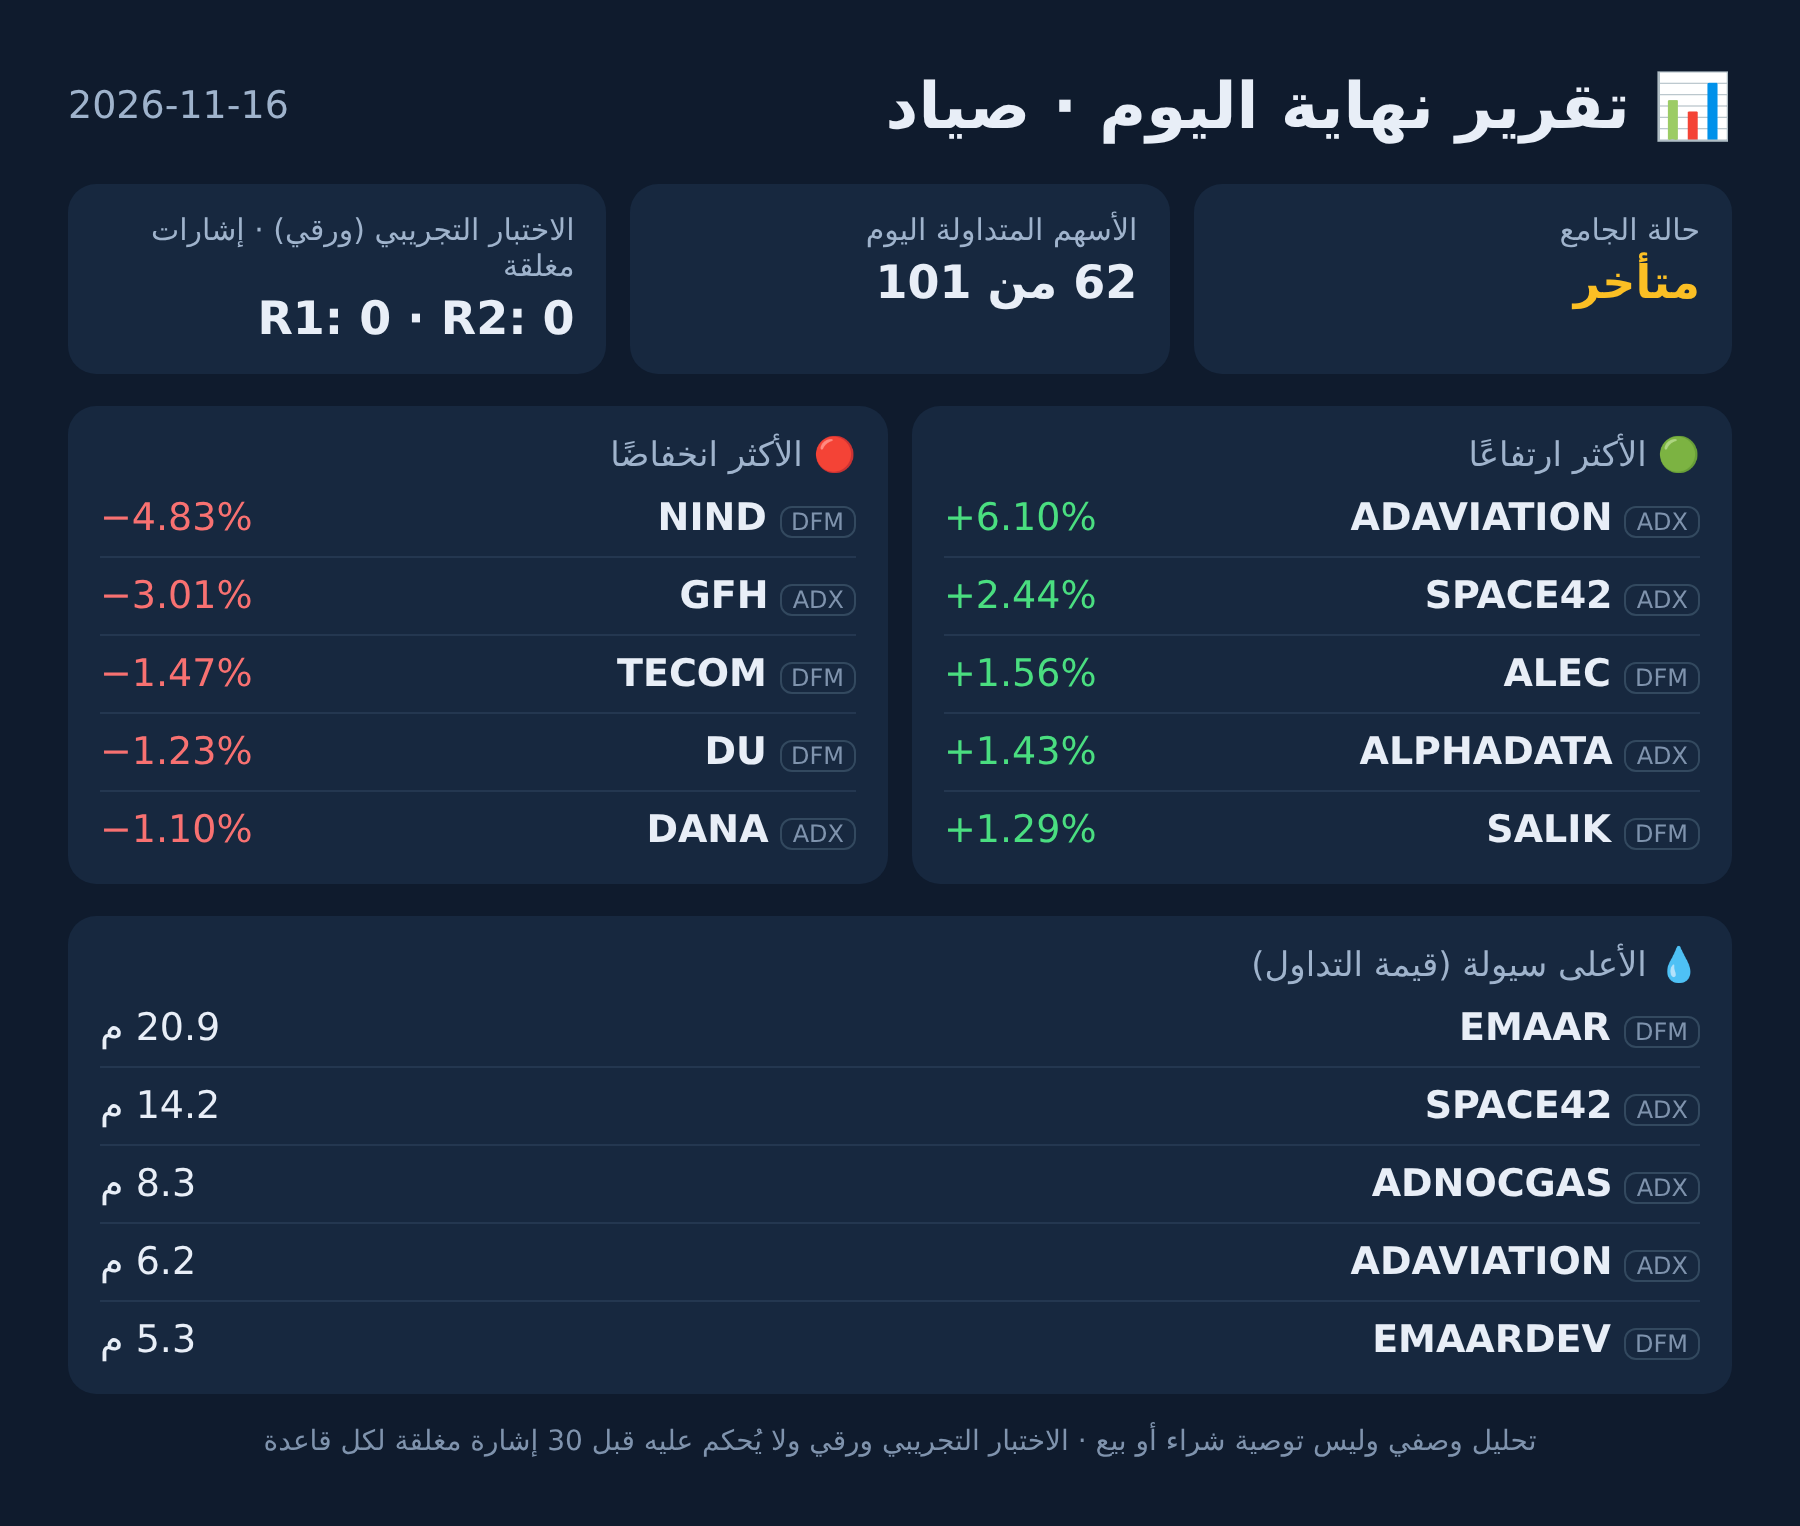
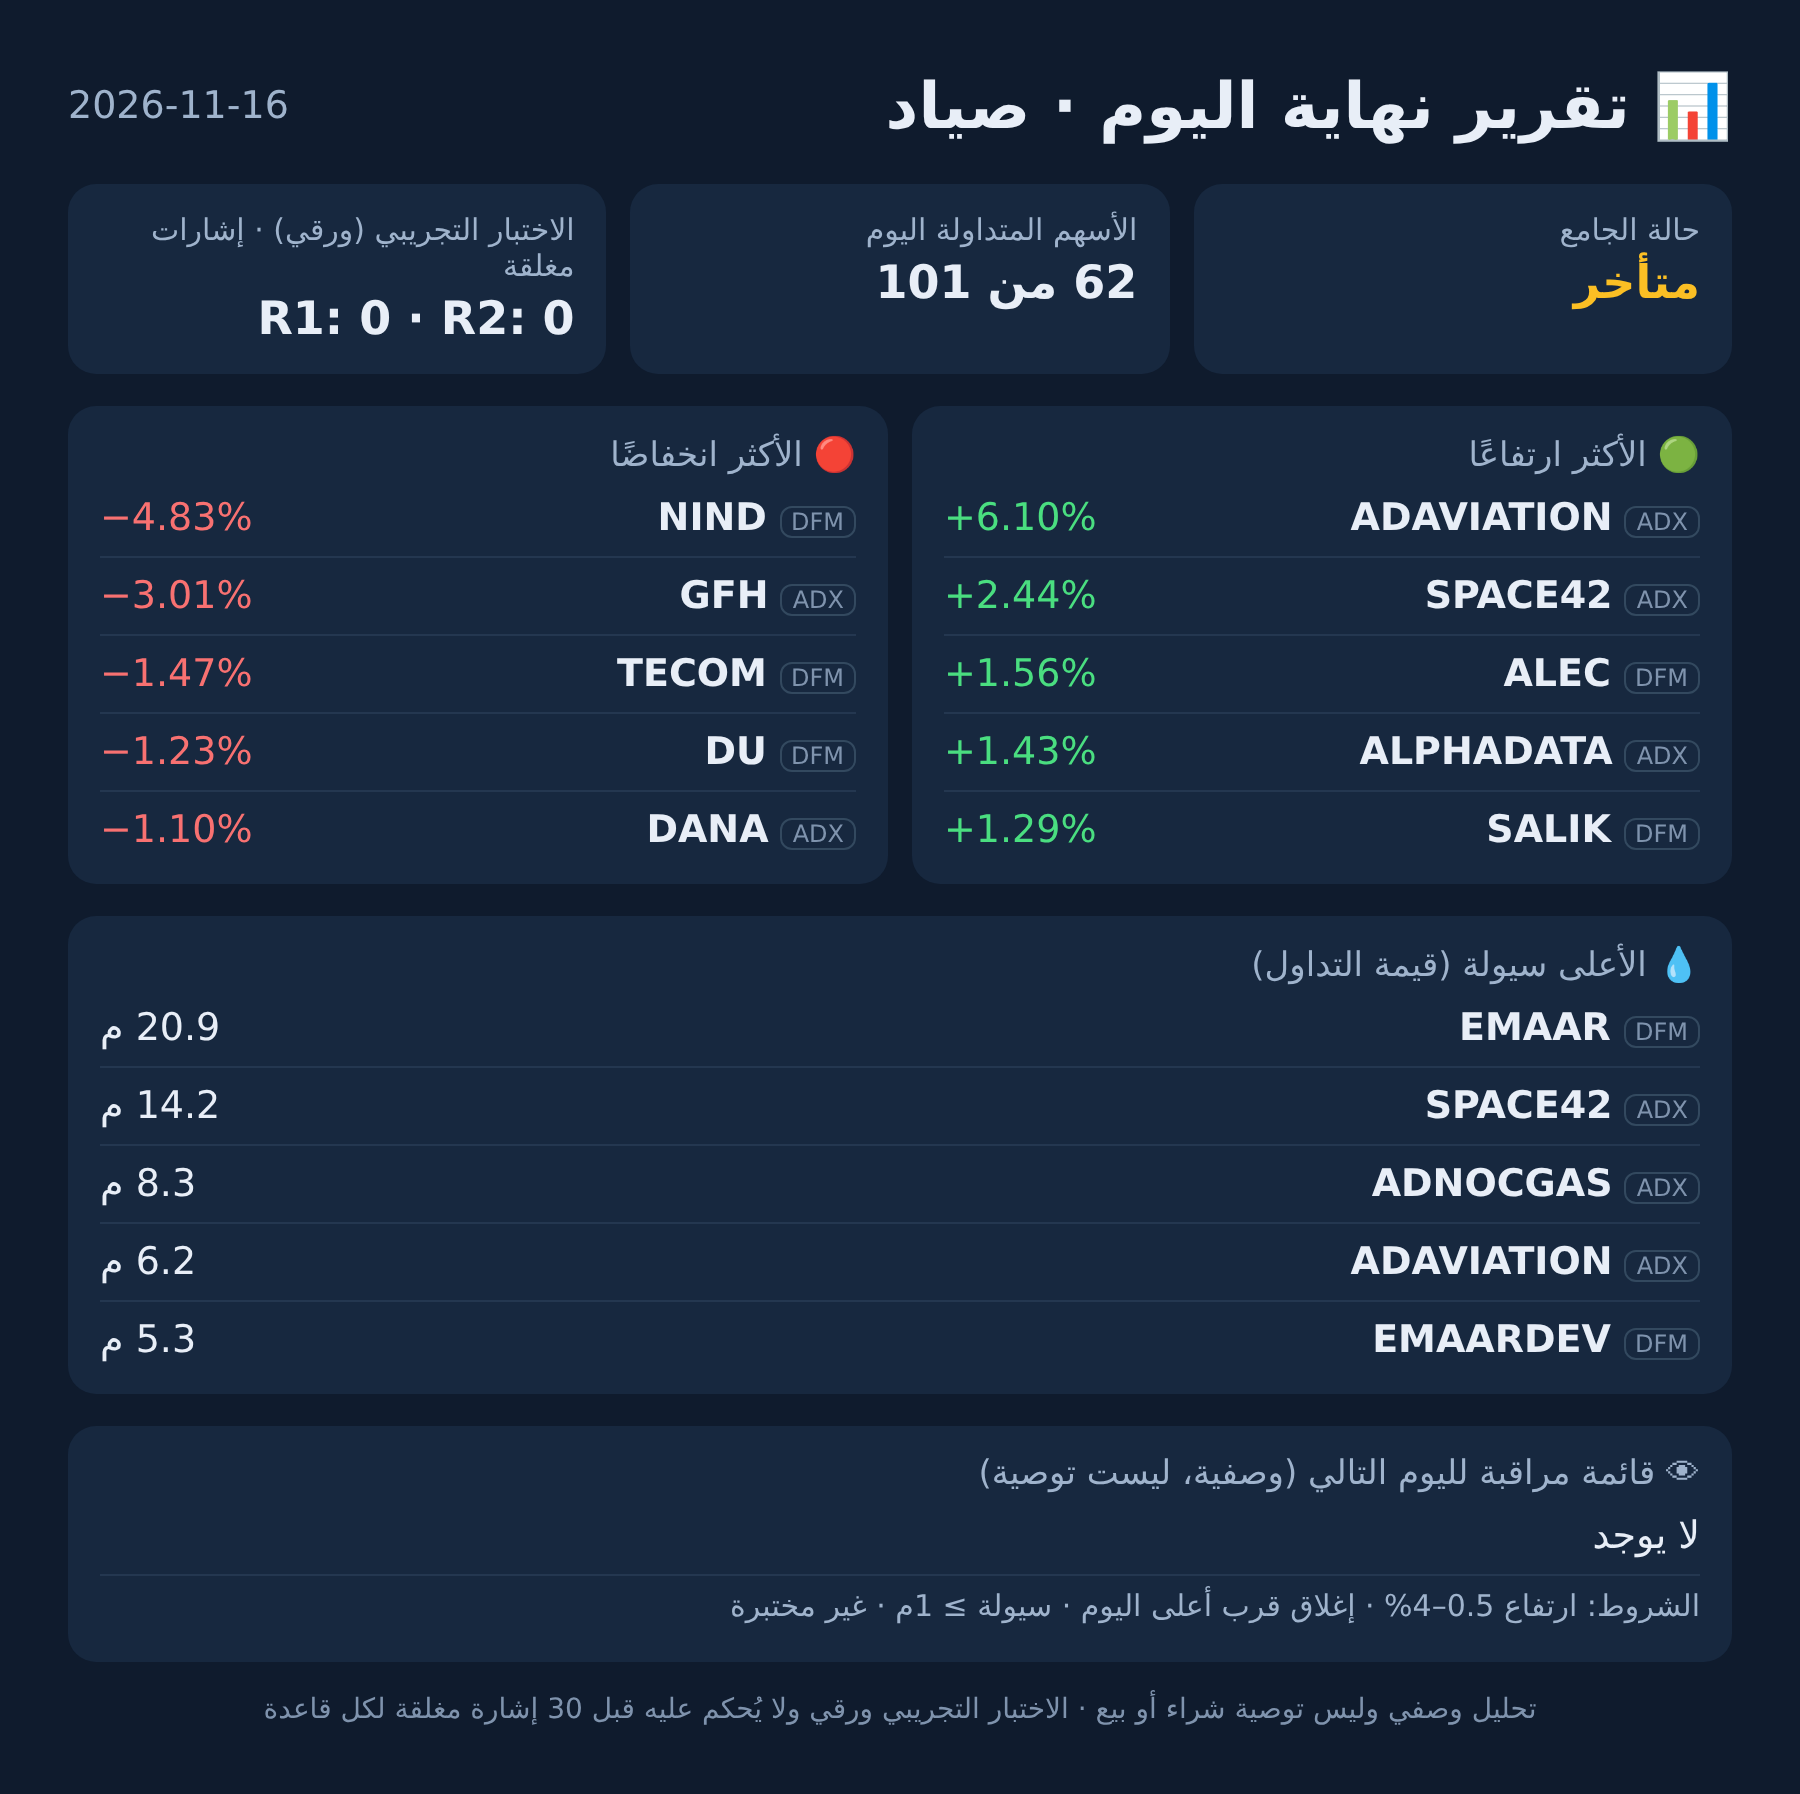
report: next-day descriptive watchlist
Claude-Session: https://claude.ai/code/session_01TtkEuYsZ4h1TUWm22gs7JN

diff --git a/report.py b/report.py
@@ -20,18 +20,20 @@ def build():
         r = adx.get(ALIAS.get(s, s))
         if not r: missing.append("ADX:" + s); continue
         last, prev = num(r.get("last")), num(r.get("previousClose"))
-        if last > 0 and prev > 0: rows.append(dict(m="ADX", s=s, last=last, ch=(last / prev - 1) * 100, v=num(r.get("value"))))
+        if last > 0 and prev > 0: rows.append(dict(m="ADX", s=s, last=last, ch=(last / prev - 1) * 100, v=num(r.get("value")), hi=num(r.get("high")), lo=num(r.get("low"))))
     dfm = {r["id"]: r for r in j["sources"]["dfm"]["parts"]["stocks"]}
     for s in U["DFM"]:
         r = dfm.get(s)
         if not r: missing.append("DFM:" + s); continue
         last = num(r.get("lastradeprice")) or num(r.get("closingprice")); prev = num(r.get("previousclosingprice"))
-        if last > 0 and prev > 0: rows.append(dict(m="DFM", s=s, last=last, ch=(last / prev - 1) * 100, v=num(r.get("totalvalue"))))
+        if last > 0 and prev > 0: rows.append(dict(m="DFM", s=s, last=last, ch=(last / prev - 1) * 100, v=num(r.get("totalvalue")), hi=num(r.get("highestprice")), lo=num(r.get("lowestprice"))))
     universe_n = len(U["ADX"]) + len(U["DFM"])
     traded = [r for r in rows if r["v"] > 0]
     gain = sorted(traded, key=lambda r: -r["ch"])[:5]
     lose = sorted(traded, key=lambda r: r["ch"])[:5]
     val = sorted(traded, key=lambda r: -r["v"])[:5]
+    def pos(r): return (r["last"] - r["lo"]) / (r["hi"] - r["lo"]) if r["hi"] > r["lo"] > 0 else 0
+    watch = sorted([r for r in traded if 0.5 <= r["ch"] <= 4 and r["v"] >= 1e6 and pos(r) >= 0.7], key=lambda r: -r["v"])[:5]
     core = [r for r in rows if r["m"] == "ADX" and r["s"] in U["CORE10"]]
     core.sort(key=lambda r: -r["ch"])
     try: fs = json.load(open(os.path.join(ROOT, "forward", "summary.json"), encoding="utf-8"))["rules"]
@@ -39,7 +41,7 @@ def build():
     now = datetime.now(timezone.utc)
     fresh = ts[:10] == now.strftime("%Y-%m-%d") and ts[11:16] >= "10:30"
     return dict(date=ts[:10], ts_utc=ts, collector_ok=fresh, universe=universe_n, priced=len(rows), traded=len(traded), missing=missing,
-                gainers=gain, losers=lose, top_value=val, core10=core, forward=fs)
+                gainers=gain, losers=lose, top_value=val, watch=watch, core10=core, forward=fs)
 
 def fmt_ch(x): return ("+" if x >= 0 else "−") + "%.2f%%" % abs(x)
 def fmt_v(v): return ("%.1f م" % (v / 1e6)) if v >= 1e6 else ("%d ألف" % round(v / 1e3))
@@ -80,10 +82,11 @@ body{width:900px;background:#0f1b2d;font-family:"Noto Sans Arabic","Noto Naskh A
 <div class="col"><div class="ct">🔴 الأكثر انخفاضًا</div>%s</div>
 </div>
 <div class="cols"><div class="col"><div class="ct">💧 الأعلى سيولة (قيمة التداول)</div>%s</div></div>
+<div class="cols"><div class="col"><div class="ct">👁 قائمة مراقبة لليوم التالي (وصفية، ليست توصية)</div>%s<div class="l" style="padding:6px 0">الشروط: ارتفاع 0.5–4%% · إغلاق قرب أعلى اليوم · سيولة ≥ 1م · غير مختبرة</div></div></div>
 <div class="f">تحليل وصفي وليس توصية شراء أو بيع · الاختبار التجريبي ورقي ولا يُحكم عليه قبل 30 إشارة مغلقة لكل قاعدة</div>
 </body></html>""" % (d["date"], health, d["traded"], d["universe"],
         r1.get("closed", "؟"), r2.get("closed", "؟"),
-        lines(d["gainers"], "ch"), lines(d["losers"], "ch"), lines(d["top_value"], "v"))
+        lines(d["gainers"], "ch"), lines(d["losers"], "ch"), lines(d["top_value"], "v"), lines(d.get("watch", []), "ch"))
 
 def main():
     d = build()
